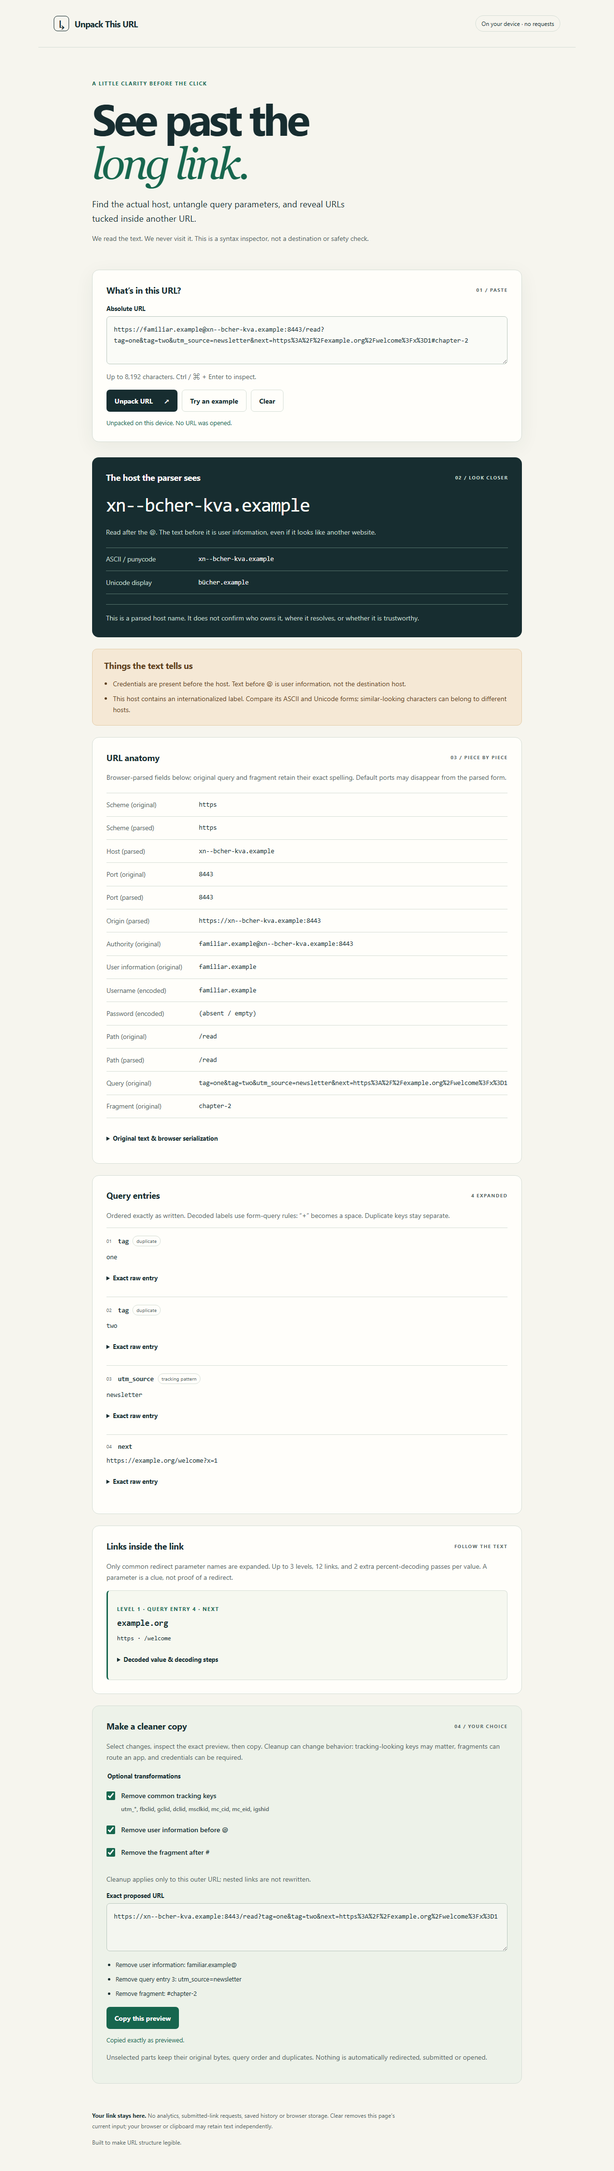
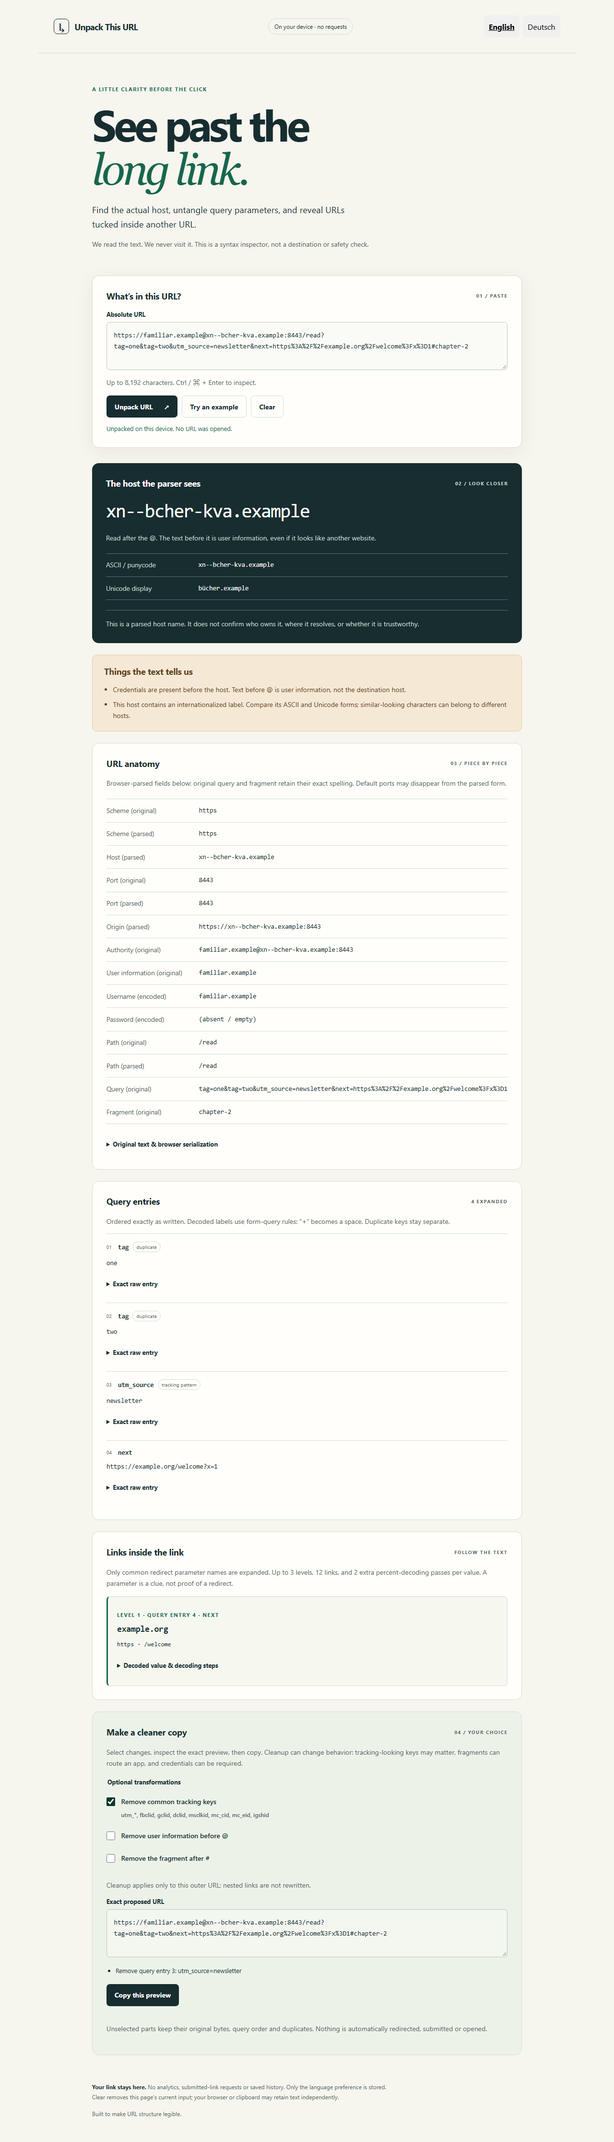
docs: improve public product documentation

diff --git a/README.md b/README.md
@@ -1,75 +1,76 @@
 # Unpack This URL
 
-A browser-local URL anatomy inspector. Paste an absolute URL to see its parsed host,
-raw components, duplicate query entries, Unicode/punycode host forms and bounded
-HTTP(S) links nested in common redirect parameters. Optional cleanup shows exact
-transformations before an explicit copy action. Submitted URLs are never visited,
-fetched or persisted. Syntax observations are not destination or safety judgments.
+See the host, query parameters and nested links hidden inside a long URL before deciding what to do with it. Unpack This URL reads the text in your browser without opening the destination.
 
-The app needs no account or runtime dependencies. With Node.js 24 or newer installed,
-start the local preview:
+**[Open Unpack This URL](https://tools.arcdrake.com/unpack/)** · [Download source](https://github.com/ArcdrakeStudios/unpack-this-url/archive/refs/heads/main.zip) · [Arcdrake Tools](https://tools.arcdrake.com/) · [Report an issue](https://github.com/ArcdrakeStudios/unpack-this-url/issues)
+
+## How to use it
+
+1. Paste an absolute URL, such as `https://example.com/page?utm_source=newsletter`, or choose **Try an example**.
+2. Inspect the parsed host, original components, query entries and nested links.
+3. Choose whether to remove common tracking parameters, credentials or the fragment.
+4. Check the exact preview, then copy it.
+
+<details>
+<summary>View desktop screenshot</summary>
+
+![Unpack This URL with fictional example data](docs/screenshot-desktop.png)
+
+</details>
+
+[Mobile screenshot](docs/screenshot-mobile.png). Screenshots show the standalone application with fictional data.
+
+## Privacy and limitations
+
+Entered URLs are never visited, fetched or saved by the application. Results describe URL syntax; they do not establish who owns a destination or whether it is safe. Changing a URL can change its behavior, so inspect the preview before using it.
+
+The inspector accepts up to 8,192 characters and expands the first 150 query entries. Cleanup is disabled beyond that query-entry limit. Nested-link inspection follows common redirect parameter names, up to three levels and 12 links, with two additional percent-decoding passes per already form-decoded value. Other fields or deeper levels may still contain URLs.
+
+Tracking cleanup affects only the outer query. It removes `utm_*`, `fbclid`, `gclid`, `dclid`, `msclkid`, `mc_cid`, `mc_eid` and `igshid`, preserving the spelling, order and duplicates of other entries. Credentials and fragments have separate options.
+
+Copying uses the browser clipboard when permitted; otherwise the preview is selected for manual copying. Clear removes input and results from the page. Your browser and clipboard may retain their own data.
+
+English and German are available. Only the language preference is stored locally; entered URLs and results are not.
+
+The hosted site receives ordinary page and asset requests. See its [privacy information](https://tools.arcdrake.com/privacy/) for hosting details.
+
+## Run locally
+
+Download and extract the source ZIP, or clone this repository. Open a terminal
+in the resulting folder.
+
+Install Node.js 24 or newer, then run from this repository:
 
 ```sh
 npm run dev
 ```
 
-Local entry: http://127.0.0.1:43218. Stop the server with Ctrl+C.
-`dist/` contains the static application; no server processing is needed.
-Production uses the approved release artifact; see [deployment](docs/DEPLOYMENT.md).
+Open http://127.0.0.1:43218/. Stop the preview with Ctrl+C. No package installation is needed to run the application. Serve it over HTTP(S), rather than opening `index.html` directly. The files in `dist/` are the application source; there is no compilation step.
 
-Bounds: 8,192 input characters; first 150 query entries expanded; cleanup disabled
-beyond that limit; 3 nested levels, 12 nested links total, and 2 additional percent
-decoding passes per already form-decoded parameter. Only common redirect keys are
-examined. Deeper or unrelated fields can still contain URLs. Native WHATWG URL
-parsing and raw text are shown separately, because normalization changes spelling.
+## Development
 
-Tracking cleanup removes only `utm_*`, fbclid, gclid, dclid, msclkid, mc_cid, mc_eid,
-igshid on the outer query, preserving other raw entries and their order/duplicates.
-It can change URL behavior. Credentials and fragments require separate explicit
-choices. Clipboard access requires a secure context; if denied, the preview is
-selected for manual copy. Clear empties the current page; browser/clipboard state
-is outside the app. Only the interface language preference is saved in browser
-storage; entered URLs and results are not. No URL-derived hyperlinks, analytics, fonts, images,
-remote scripts, network APIs or automatic navigation are used. CSP blocks network
-connections; all rendering uses text nodes and textarea values.
-
-## Source and verification
-
-![Synthetic desktop example](docs/screenshot-desktop.png)
-
-MIT licensed; see [LICENSE](LICENSE) and [third-party inventory](THIRD_PARTY_NOTICES.md).
-Built by [Arcdrake](https://arcdrake.com/). The source is available in this repository; production hosting is not yet live.
-See [verification](docs/VERIFICATION.md) and [deployment](docs/DEPLOYMENT.md).
-
-Requires Node.js 24 or newer for the local preview and core tests. No package installation is needed for those commands.
-`npm test` runs deterministic core tests. `npm run package` requires Python 3.11+
-and creates a checked static ZIP plus SHA-256 manifest in `artifacts/release/`.
-There is no frontend compilation step; `dist/` is the application source.
-
-For browser regression checks, follow the locked development setup below and run `npm run test:ci`. The script starts/stops its own preview and headless browser. Screenshots go to ignored `artifacts/readiness/`; only `UPDATE_SCREENSHOTS=1` replaces release images in `docs/`. Do not run it while
-another process owns the app's preview port. No package/browser installation is
-required for normal use. Chromium desktop and 390px emulation are recorded;
-physical devices, screen readers and other engines have not been tested.
-
-For contributions, supply a reproducible issue with synthetic inputs only; never
-attach real credentials or private URLs/domains. Run the relevant core/browser
-checks with a proposed fix. [Report an issue](https://github.com/ArcdrakeStudios/unpack-this-url/issues).
-
-## Source, support and development
-
-[Source](https://github.com/ArcdrakeStudios/unpack-this-url) · [Issues](https://github.com/ArcdrakeStudios/unpack-this-url/issues) · [Contributing](CONTRIBUTING.md) · [Security](SECURITY.md)
-
-Part of Arcdrake's tools collection. The planned shared home is `tools.arcdrake.com`;
-production hosting is not live as part of this source release. Local use is available
-above. Development checks use Node.js 24, Python 3.11+ and locked Playwright tooling:
+Packaging additionally requires Python 3.11 or newer available as `python`, because the npm script calls that command. Check `python --version`; if your system only provides `python3`, configure your Python installation or PATH so `python` selects Python 3.11 or newer. Install the locked development tools and run the checks:
 
 ```sh
 npm ci
 npx playwright install chromium
 npm test
 npm run test:ci
+npm run test:localization
 npm run package:release
 ```
 
-The CI wrapper starts and stops its own preview server. Runtime operation needs no
-package installation. [Release procedure](docs/RELEASING.md).
+Browser checks manage their own local servers. Leave the preview port free before running them. The package command writes static files and a SHA-256 manifest to `artifacts/release/`; it does not publish or deploy.
+
+Automated browser coverage uses Chromium, including narrow layouts. Safari, Firefox, physical devices and screen readers have not been verified for this app. Report compatibility problems with your browser version and a fictional example.
+
+See [contributing](CONTRIBUTING.md), [language support](docs/LOCALIZATION.md), [test coverage](docs/VERIFICATION.md) and [packaging and hosting](docs/RELEASING.md).
+
+## License and support
+
+An [Arcdrake](https://arcdrake.com/) product. Free to use, modify and redistribute under the [MIT license](LICENSE). See [third-party notices](THIRD_PARTY_NOTICES.md) for attribution.
+
+Use the [issue tracker](https://github.com/ArcdrakeStudios/unpack-this-url/issues) for bugs and suggestions. Do not include private URLs or credentials. Report security vulnerabilities through the [private reporting channel](SECURITY.md).
+
+Feature requests are welcome in the issue tracker. To contribute an improvement,
+see [the contribution guide](CONTRIBUTING.md).

diff --git a/docs/DEPLOYMENT.md b/docs/DEPLOYMENT.md
@@ -1,30 +1,23 @@
-# Static deployment
+# Static hosting
 
-For local package inspection, run `npm test`, the browser checks described in [README](../README.md),
-then `python tools/package-release.py` (Python 3.11+). The resulting
-`artifacts/release/static-release.zip` contains exactly four application files,
-LICENSE and THIRD_PARTY_NOTICES.md; manifest.json records archive/per-file hashes.
-Packaging needs no dependency installation. Browser checks require the locked
-Playwright dependency and browser installation documented in README. Runtime use
-requires no backend, database or account.
+The hosted application is available at [tools.arcdrake.com/unpack/](https://tools.arcdrake.com/unpack/). To host your own copy, build a package using [these instructions](RELEASING.md).
 
-For production, use only the retained **Prepare release artifact** workflow output
-for the approved main commit, following [RELEASING.md](RELEASING.md). Local packages
-are for inspection, not production deployment. Serve the unpacked approved static
-package over HTTPS from its own root or directory.
-A directory mount must serve its trailing-slash index and adjacent relative assets.
-Do not serve the repository root, tests, internal tooling or artifacts directory.
-Confirm unknown-path 404 behavior and preserve other routes on an existing host.
+## Files and paths
 
-Set X-Content-Type-Options: nosniff and Referrer-Policy: no-referrer. Keep the
-application's current CSP, restrict framing through host headers, and use
-revalidated HTML/consistent asset caching. No service worker is installed.
-The URL inspector's connect-src remains 'none'; never fetch inspected URLs. Clipboard access requires HTTPS or a supported loopback secure context.
+Extract `artifacts/release/static-release.zip`. It contains five application files: `index.html`, `style.css`, `app.js`, `anatomy.js` and `language.js`, plus `LICENSE` and `THIRD_PARTY_NOTICES.md`. A separate `manifest.json` records archive and per-file SHA-256 hashes.
 
-After deployment compare per-file hashes with the manifest, inspect security
-headers and desktop/mobile behavior, and verify the actual origin-specific flow.
-Hosting receives page/asset requests and may keep access logs; describe the chosen
-host's processing and operator/contact information accurately. Retain the previous
-static package for rollback. The app has no stored user data to migrate.
+Serve the extracted static files over HTTPS from a root or directory, preserving relative asset paths. A directory mount must serve its trailing-slash index. Do not serve the repository root, tests or development tools. No application backend, database or account system is required.
 
-The planned shared home is tools.arcdrake.com. Source publication and production hosting are separate; see [RELEASING.md](RELEASING.md).
+## Host configuration
+
+Keep the application's Content Security Policy. Set `X-Content-Type-Options: nosniff` and `Referrer-Policy: no-referrer`, and configure framing restrictions appropriate to your host. Revalidate HTML and avoid serving stale assets from another version.
+
+Keep `connect-src 'none'`; the inspector must not fetch submitted URLs. Clipboard access requires HTTPS or a supported loopback secure context. A denied clipboard request should still allow manual copying.
+
+No service worker is installed. Language preference storage belongs to the current origin.
+
+## Check your deployment
+
+Verify file hashes against the manifest, unknown-path 404 responses, asset loading, security headers, narrow layouts and English/German controls. Check URL inspection and both clipboard and manual copying.
+
+Hosting receives ordinary page and asset requests and may keep access logs. Describe the host's processing and operator/contact information accurately. Keep the previous package and manifest if you need to restore an earlier version.

diff --git a/docs/LOCALIZATION.md b/docs/LOCALIZATION.md
@@ -1,11 +1,19 @@
 # English and German interface
 
-The bundled `dist/language.js` contains local translations for static text, dynamic findings, help, errors and accessibility labels. It makes no network requests and adds no runtime dependencies. Rehearsal also localizes exported HTML run sheets. Raw URLs, DNS evidence, protocol values and user-authored event content remain data, protected by explicit raw display boundaries.
+The bundled `dist/language.js` supplies translations for interface text, help, errors and accessibility labels without network requests or runtime dependencies. Entered URLs, parsed components and generated URL previews remain data and are not translated.
 
-Language priority is valid `?lang=de|en`, then valid `arcdrake-tools-language` preference, then German browser language, otherwise English. Unavailable browser storage does not prevent an explicit URL choice. Only the preference is persisted by the language module.
+Language selection follows this order:
 
-The visible English/Deutsch buttons update the URL with `history.replaceState` without reloading. Each app dispatches and listens for `arcdrake-language-change` on `window`, with `detail.language` equal to `en` or `de`. This lets the collection shell change language while preserving entered values, selections, simulations and existing results.
+1. A valid `?lang=de` or `?lang=en` URL parameter.
+2. The saved `arcdrake-tools-language` preference.
+3. German when the browser's language is German; English otherwise.
 
-The translator retains English source text per node and translates exact strings or bounded message templates. It never replaces arbitrary words inside user text. When adding UI copy, add both its English source and German translation, keep inserted user values in raw boundaries, and extend the localization journey as needed.
+An explicit URL choice still works when browser storage is unavailable. Only the language preference is persisted by this module.
 
-Run `npm test`, `npm run test:ci`, and `npm run test:localization`. Localization browser tests cover dynamic German results/errors, EN/DE state retention, raw-data retention, explicit URL and stored preference priority, browser-language fallback, denied storage and narrow screens. Every owned test browser is closed in `finally`.
+English/Deutsch controls change the language without reloading or clearing entered data. The app dispatches and listens for `arcdrake-language-change` on `window`, with `detail.language` set to `en` or `de`. A script running in the same page, such as site navigation, can use this event to coordinate language changes. The event does not cross iframe boundaries.
+
+## Adding translations
+
+The translator retains English source text per node and translates exact strings or bounded message templates. It does not replace arbitrary words inside user text. Add both the English source and German translation for new interface copy, keep user-supplied values outside translated text, and extend the localization tests.
+
+Run `npm run test:localization` after installing the development tools described in the [README](../README.md). The checks cover language selection, translated results and errors, preservation of entered data, unavailable storage and narrow layouts.

diff --git a/CONTRIBUTING.md b/CONTRIBUTING.md
@@ -1,35 +1,33 @@
 # Contributing
 
-Please open an issue before a substantial change. Small, focused fixes are welcome.
-Fork the repository, create a branch and submit a pull request against `main`.
-Use synthetic inputs in reports, screenshots and tests; do not post private data.
+Small, focused fixes are welcome. Open an issue before a substantial change so we can discuss the intended behavior. Fork the repository, create a branch and submit a pull request against `main`.
 
-Use Node.js 24 and Python 3.11 or newer. Install development tools with `npm ci`, then run:
+## Development checks
+
+Follow the prerequisites in the [README](README.md), then run:
 
 ```sh
+npm ci
 npx playwright install chromium
 npm test
 npm run test:ci
+npm run test:localization
 npm run package:release
 ```
 
-On Linux, `npx playwright install --with-deps chromium` installs required browser
-libraries. CI uses disposable GitHub-hosted runners. Maintainer approval is needed
-before an outside contributor's workflow runs; approval is not a code review.
+On Linux, `npx playwright install --with-deps chromium` also installs required browser libraries. Browser tests start and stop their own preview servers; leave the app's preview port free.
 
-Keep the app dependency-light and preserve its documented privacy and scope.
-Include a regression check for behavioral fixes and explain verification limits.
-Review must cover code, public copy, dependency rights and screenshots. Contributions
-are provided under the repository's MIT license. Be respectful and constructive.
+## Preparing a pull request
 
-## Maintainer workflow
+Explain the user-visible problem, the change and how you checked it. Add a regression test for behavioral fixes when practical, and keep documentation and both interface languages consistent with the application.
 
-Main requires a pull request, passing `verify` CI, resolved conversations and linear
-history. Squash merge approved changes. Force pushes and branch deletion are blocked.
-CODEOWNERS assigns review to @SirDragonheart. A separate review rule requires one
-approval, with a PR-only exception for the owner account: founder-authored PRs must
-record independent Claude review and resolved findings before that exception is used.
-The exception does not bypass CI or permit direct pushes. GitHub enforces the checks;
-the independent-review evidence requirement is a maintainer procedure.
+Preserve the documented privacy boundaries and keep runtime dependencies minimal. Use fictional inputs in issues, tests and screenshots. Never post private data or credentials.
 
-See [release procedure](docs/RELEASING.md) and [security reporting](SECURITY.md).
+Pull requests must pass the required CI check before merging. Contributor pull requests are reviewed by a maintainer. A maintainer may need to approve a contributor's workflow run before checks begin.
+
+Contributions are provided under the repository's MIT license. Be respectful and constructive.
+
+See [packaging and hosting](docs/RELEASING.md), [language support](docs/LOCALIZATION.md) and [security reporting](SECURITY.md).
+
+Accepted changes can be included in future updates to the hosted app. Deployment
+is managed separately from pull request merging.

diff --git a/docs/RELEASING.md b/docs/RELEASING.md
@@ -1,22 +1,23 @@
-# Release procedure
+# Packaging and hosting
 
-The canonical source is https://github.com/ArcdrakeStudios/unpack-this-url.
-The planned shared product home is `tools.arcdrake.com`; its production launch is
-separate from source publication. This repository does not automatically deploy.
+[Unpack This URL](https://tools.arcdrake.com/unpack/) is part of [Arcdrake Tools](https://tools.arcdrake.com/). This repository contains its standalone source. Its workflows check changes and prepare downloadable artifacts; they do not deploy the hosted service.
 
-1. Merge through the protected pull-request workflow with `verify` passing and
-   review findings resolved. Record independent review for an owner-authored PR.
-2. Dispatch **Prepare release artifact** on `main`. The `release` environment
-   requires owner approval and restricts runs to main. It repeats tests and packages
-   the checked-out SHA. The artifact is named with that SHA and retained for 30 days.
-3. Inspect the package manifest/hashes. Download and retain the artifact and manifest
-   in the deployment release archive before GitHub retention expires.
-4. Website deployment belongs to the separate infrastructure workflow. Pin this
-   public commit and artifact hash there; verify routing, security headers and user
-   journeys on the production origin. No credentials or deployment hooks live here.
-5. Keep the previous verified artifact and manifest. Roll back through the same
-   infrastructure workflow to those exact bytes, then check the live product.
+## Build a static package
 
-Do not deploy from a contributor branch, arbitrary tag or local working directory.
-Static host logs and origin-dependent browser behavior require separate deployment
-verification. The initial source publication is not evidence of a live public site.
+Follow the development checks in the [README](../README.md), then run:
+
+```sh
+npm run package:release
+```
+
+Python 3.11 or newer must be available as `python`, the command used by the npm script. Check `python --version`; if only `python3` is available, configure your Python installation or PATH before using the npm command. The command creates `artifacts/release/static-release.zip` and a separate `manifest.json` with archive and per-file SHA-256 hashes.
+
+The application files are `index.html`, `style.css`, `app.js`, `anatomy.js` and `language.js`. The package also includes `LICENSE` and `THIRD_PARTY_NOTICES.md`; retain these when redistributing it. Packaging does not download dependencies, upload files or configure hosting.
+
+The **Prepare release artifact** GitHub Actions workflow runs on `main` when dispatched by a maintainer. It repeats the checks and uploads an artifact named with the source commit. GitHub keeps these workflow artifacts for 30 days; they are not permanent release downloads.
+
+## Host your own copy
+
+See [static hosting](DEPLOYMENT.md) for package layout, headers and browser requirements.
+
+Retain the previous package and manifest if you need to restore an earlier version. Verify the files against the manifest before serving them.

diff --git a/docs/VERIFICATION.md b/docs/VERIFICATION.md
@@ -1,19 +1,17 @@
-# Verification
+# Test coverage and compatibility
 
-On 14 October 2026, 8 deterministic core tests passed under Node.js 24.14.0.
-Six headless Chromium 151.0.7922.34 checks passed on the actual local page.
-Desktop and 390px mobile-emulation screenshots use synthetic inputs and were
-visually inspected; no horizontal overflow was measured. No physical-device,
-screen-reader or non-Chromium testing is recorded.
+Install the development tools in the [README](../README.md), then run:
 
-Clipboard readback independently matched the exact transformed preview. Submitted URLs stayed inert; only local assets were requested. Injected clipboard denial selected the complete manual-copy preview; Clear removed input/results.
+```sh
+npm test
+npm run test:ci
+npm run test:localization
+```
 
-Run `npm test`. For browser checks follow the [README](../README.md): install the locked
-Playwright dependency and Chromium using the documented commands. The browser script
-starts its own loopback server and closes it and its isolated browser afterward.
-Screenshots default to ignored artifacts; UPDATE_SCREENSHOTS=1 is a deliberate
-release-image refresh. The application needs no package installation.
+Core tests exercise URL parsing, duplicate query entries, nested links, bounded decoding and cleanup transformations. Chromium browser checks cover inert URL rendering, exact clipboard output, manual-copy fallback, clearing input and narrow layouts. Localization checks cover English/German selection and preservation of raw URL data.
 
-The static package builder rejects unexpected files/subdirectories, uses stored
-ZIP entries with fixed metadata, checks each archive member against source and
-writes archive/per-file SHA-256 hashes. It is not a publishing command.
+Automated checks use Chromium. They do not establish compatibility with Safari, Firefox, physical devices or screen readers. Clipboard behavior also depends on browser permissions and the hosting origin.
+
+Browser checks create their own loopback server and close it afterward. Screenshots default to ignored `artifacts/readiness/`. Setting `UPDATE_SCREENSHOTS=1` updates the documented screenshots in `docs/`; inspect those images before committing them.
+
+The static package builder checks the application file inventory, compares archive contents with source, and writes archive and per-file SHA-256 hashes. It does not publish.

diff --git a/.github/pull_request_template.md b/.github/pull_request_template.md
@@ -1,11 +1,14 @@
 ## Problem and change
 
+Describe the user problem and how this change addresses it.
+
 ## Verification
 
-## Privacy, security and dependency impact
+Describe the checks you ran and any remaining limitations.
 
-- [ ] Tests pass and limitations are stated.
+## Checklist
+
+- [ ] Relevant checks pass.
 - [ ] Examples and screenshots contain no private information.
 - [ ] Documentation matches the behavior.
-
-## Independent review evidence (required for owner review exception)
+- [ ] Any privacy, security or dependency changes are explained.

diff --git a/.github/ISSUE_TEMPLATE/bug_report.md b/.github/ISSUE_TEMPLATE/bug_report.md
@@ -12,8 +12,10 @@ assignees: ""
 
 ## Steps to reproduce
 
+## Hosted app or self-hosted copy?
+
 ## Browser and version
 
 ## Screenshots (remove private information)
 
-For security vulnerabilities, use SECURITY.md instead.
+For security vulnerabilities, use [private security reporting](https://github.com/ArcdrakeStudios/unpack-this-url/security/advisories/new) instead.
